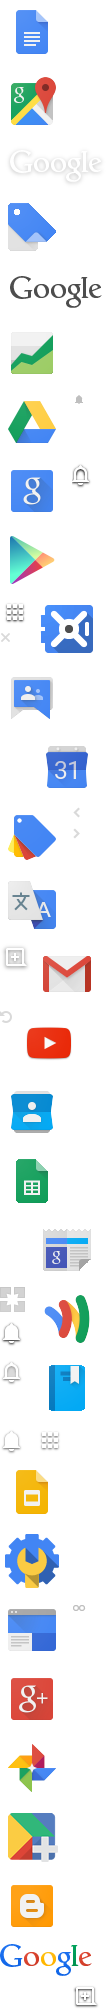
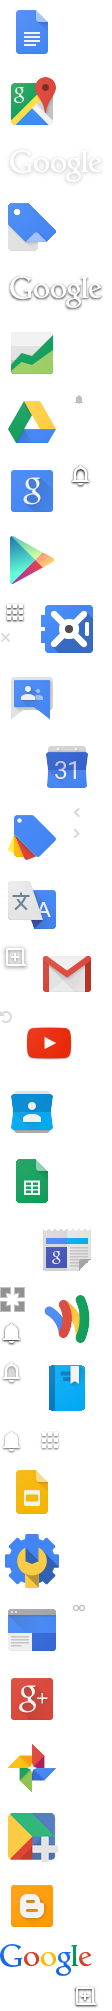
очередное обновление иконок и шапки

Changed region(s): [[0.0804, 0.1233, 0.9107, 0.1542], [0.1607, 0.6166, 0.2143, 0.6783], [0.0268, 0.6166, 0.0536, 0.6783]]

diff --git a/googleplaynightflight.css b/googleplaynightflight.css
@@ -30,7 +30,7 @@ a:link, a:visited, a:active {
 	border: none !important;
 	box-shadow: 0 0 4px white !important;
 }
-.gb_Ub, .gb-reader-container, .play-button.wishlist-content.wishlist-added, .list-row:hover, .ctp-body, .ac-renderer, .cluster-container, .device-selector-dropdown-children, .modal-dialog, .leaf-submenu-link-wrapper:hover, .parent-submenu-link-wrapper:hover, .child-submenu-link-wrapper:hover, .dropdown-submenu, .dropdown-sub-submenu, .body-content-loading-overlay, .details-section, .dropdown-child.selected, .dropdown-child:hover, .dropdown-menu-children, .app-translation-bar, .play-button.icon-button.small.rate-review, .xa, .developer-reply, .GHK2A-RDACB, .windowed > .KX, .gwt-PopupPanel, .gwt-DialogBox, .GC1JCF1CKMC, .GC1JCF1CDKC:hover, .gwt-PopupPanelGlass, .GC1JCF1COAB sidebar li:hover, .GC1JCF1CEY, #search-section.rounded, .action-bar-link.action-bar-cart-item.play-button.small, .play-button.large, .gb_v, .menu-link.id-no-menu-change.not-selected, #play-header, .redeem-term-links, #maia-footer-global, .gb_y, .gb_Vb.gb_db, .gb_0, .gb_zb, .gb_6, .gb_yb, .gb_Eb, .gb_Hb.gb_hc, .gb_Aa.gb_f, .gb_Sb, .gb_Sb:before, .gb_Xb {
+.gb_Ub, .gb-reader-container, .play-button.wishlist-content.wishlist-added, .list-row:hover, .ctp-body, .ac-renderer, .cluster-container, .device-selector-dropdown-children, .modal-dialog, .leaf-submenu-link-wrapper:hover, .parent-submenu-link-wrapper:hover, .child-submenu-link-wrapper:hover, .dropdown-submenu, .dropdown-sub-submenu, .body-content-loading-overlay, .details-section, .dropdown-child.selected, .dropdown-child:hover, .dropdown-menu-children, .app-translation-bar, .play-button.icon-button.small.rate-review, .xa, .developer-reply, .GHK2A-RDACB, .windowed > .KX, .gwt-PopupPanel, .gwt-DialogBox, .GC1JCF1CKMC, .GC1JCF1CDKC:hover, .gwt-PopupPanelGlass, .GC1JCF1COAB sidebar li:hover, .GC1JCF1CEY, #search-section.rounded, .action-bar-link.action-bar-cart-item.play-button.small, .play-button.large, .gb_v, .menu-link.id-no-menu-change.not-selected, #play-header, .redeem-term-links, #maia-footer-global, .gb_y, .gb_Vb.gb_db, .gb_0, .gb_zb, .gb_6, .gb_yb, .gb_Eb, .gb_Hb.gb_hc, .gb_Aa.gb_f, .gb_Sb, .gb_Sb:before, .gb_Xb, body > div:first-child > div:first-child {
 	background-color: rgba(0, 0, 0, 0.6) !important;
 }
 .hover-target:hover, .play-button.wishlist-content.wishlist-remove, .overflow-menu-item:hover, .track-list-row:hover td, .track-list-row.playing td, .track-list-row.loading td, .device-table, .apps .ctp-header.no-banner, .ac-active, .gb_t, .Bc, .gb_r, .device-selected, .device-selector-dropdown-child:hover, .permissions-container, .modal-dialog-overlay, .details-info, .review-panel-content, .footer, .GC1JCF1CIKC, .GC1JCF1CDKC.GC1JCF1CCKC, .GC1JCF1CGAC, .GC1JCF1CGY.GC1JCF1CMX, .GC1JCF1COAB sidebar li.GC1JCF1CABB, .GC1JCF1CEY.GC1JCF1COX, .purchase-row, .GC1JCF1CPAD, .GC1JCF1CDHD, .GC1JCF1CAUD > li, ol.GC1JCF1CA2, .GC1JCF1CAAC, .GC1JCF1CIV:hover, .GC1JCF1CIW:hover, .GC1JCF1CLAC, .rated-scrim, .action-bar-aux .action-bar-link:hover, #maia-footer-local, .gb_w, .gb_D {
@@ -121,7 +121,7 @@ a:link, a:visited, a:active {
 .action-bar-item.settings-gear-menu .dropdown-icon {
 	background-image: url("https://raw.github.com/Pmmlabs/GooglePlayNightFlight/master/images/settings.png") !important;
 }
-.gb_Ta {
+.gb_Ta:not(.gb_Xa), .gb_e {
 	background-image: url("https://raw.github.com/Pmmlabs/GooglePlayNightFlight/master/images/icons.png") !important;
 }
 .wishlist-yet-to-add .wishlist-icon {
